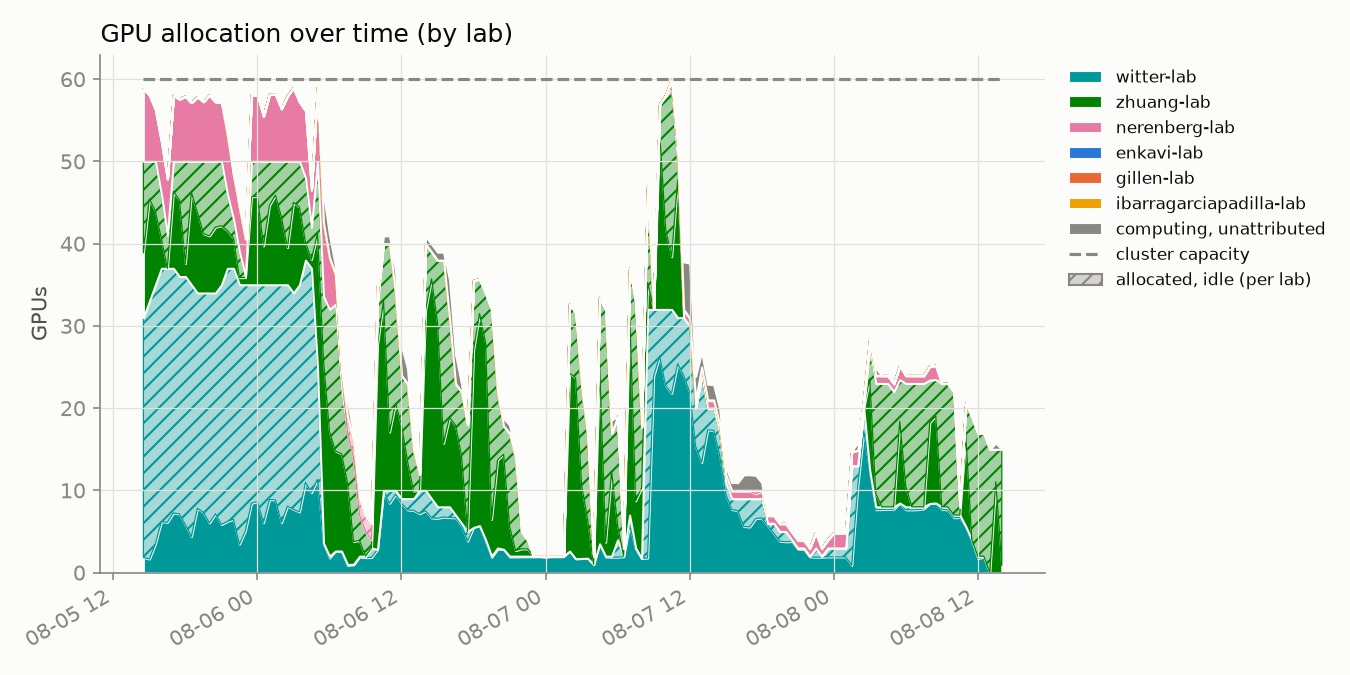
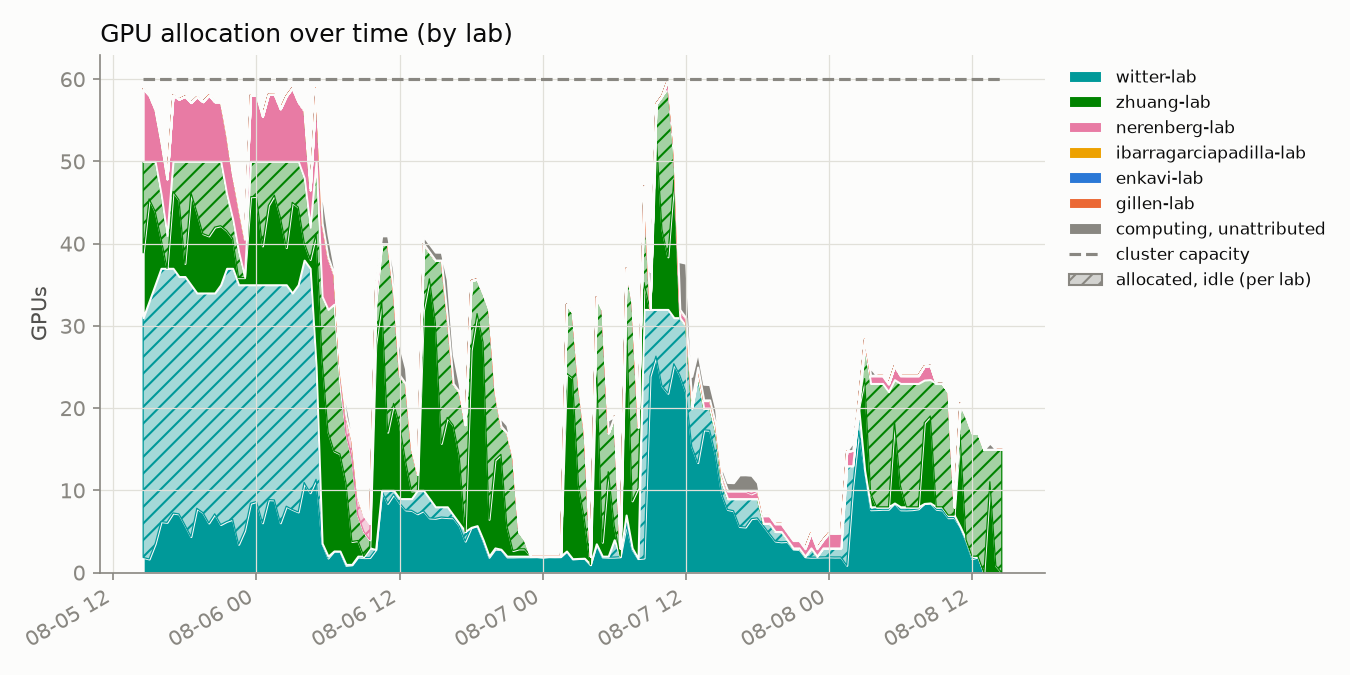
update 2026-08-08T14:30:01-07:00

diff --git a/README.md b/README.md
@@ -2,8 +2,8 @@
 
 Automated GPU/CPU/queue utilization tracker for `hopper.cluster`, updated every 30 minutes by cron. Usernames are anonymized to a stable per-account pseudonym; lab names are real.
 
-Last updated: 2026-08-08T14:00:10-07:00
-Samples: 144 queue snapshots, 144 GPU snapshots
+Last updated: 2026-08-08T14:30:10-07:00
+Samples: 145 queue snapshots, 145 GPU snapshots
 
 ## Resources
 
@@ -16,25 +16,25 @@ Samples: 144 queue snapshots, 144 GPU snapshots
 
 ## Headline
 
-- **44.2%** of the cluster's 60 GPUs allocated, averaged across all samples
-- **46.6%** average `nvidia-smi` utilization *when* a GPU is allocated to a job
+- **44.1%** of the cluster's 60 GPUs allocated, averaged across all samples
+- **46.4%** average `nvidia-smi` utilization *when* a GPU is allocated to a job
 - **88.3%** average cgroup CPU utilization *when* a CPU is allocated to a job
 
 ## Per lab / per user
 
 <table>
 <tr><th>Lab</th><th>User</th><th align='right'>GPU-hours allocated</th><th align='right'>CPU-hours allocated</th><th align='right'>GPU utilization</th></tr>
-<tr style='background-color:#d8ecd8'><td>zhuang-lab</td><td>user-0db9ced0</td><td align='right'>887.0</td><td align='right'>887.0</td><td align='right'>44%</td></tr>
+<tr style='background-color:#d8ecd8'><td>zhuang-lab</td><td>user-0db9ced0</td><td align='right'>894.5</td><td align='right'>894.5</td><td align='right'>43%</td></tr>
 <tr style='background-color:#d8efef'><td>witter-lab</td><td>user-554c620c</td><td align='right'>493.5</td><td align='right'>1019.0</td><td align='right'>68%</td></tr>
 <tr style='background-color:#d8efef'><td>witter-lab</td><td>user-d58f5a15</td><td align='right'>467.5</td><td align='right'>3740.0</td><td align='right'>9%</td></tr>
 <tr style='background-color:#fbebf1'><td>nerenberg-lab</td><td>user-6bb5f332</td><td align='right'>40.0</td><td align='right'>200.0</td><td align='right'>71%</td></tr>
 <tr style='background-color:#fbebf1'><td>nerenberg-lab</td><td>user-fedb5feb</td><td align='right'>22.5</td><td align='right'>54.0</td><td align='right'>67%</td></tr>
-<tr style='background-color:#fcf0d8'><td>ibarragarciapadilla-lab</td><td>user-dad71a72</td><td align='right'>0.0</td><td align='right'>6.0</td><td align='right'>—</td></tr>
-<tr style='background-color:#dfeaf8'><td>enkavi-lab</td><td>user-c21bdaa4</td><td align='right'>0.0</td><td align='right'>185.0</td><td align='right'>—</td></tr>
 <tr style='background-color:#fbebf1'><td>nerenberg-lab</td><td>user-b12dc074</td><td align='right'>0.0</td><td align='right'>16.0</td><td align='right'>—</td></tr>
-<tr style='background-color:#fcf0d8'><td>ibarragarciapadilla-lab</td><td>user-3cfc41a3</td><td align='right'>0.0</td><td align='right'>4005.0</td><td align='right'>—</td></tr>
 <tr style='background-color:#fcf0d8'><td>ibarragarciapadilla-lab</td><td>user-eec7ffae</td><td align='right'>0.0</td><td align='right'>426.5</td><td align='right'>—</td></tr>
-<tr style='background-color:#fce8e0'><td>gillen-lab</td><td>user-b89a87ef</td><td align='right'>0.0</td><td align='right'>780.0</td><td align='right'>—</td></tr>
+<tr style='background-color:#fcf0d8'><td>ibarragarciapadilla-lab</td><td>user-3cfc41a3</td><td align='right'>0.0</td><td align='right'>4012.5</td><td align='right'>—</td></tr>
+<tr style='background-color:#fcf0d8'><td>ibarragarciapadilla-lab</td><td>user-dad71a72</td><td align='right'>0.0</td><td align='right'>6.0</td><td align='right'>—</td></tr>
+<tr style='background-color:#dfeaf8'><td>enkavi-lab</td><td>user-c21bdaa4</td><td align='right'>0.0</td><td align='right'>187.0</td><td align='right'>—</td></tr>
+<tr style='background-color:#fce8e0'><td>gillen-lab</td><td>user-b89a87ef</td><td align='right'>0.0</td><td align='right'>792.0</td><td align='right'>—</td></tr>
 </table>
 
 ## Usage over time
@@ -45,7 +45,7 @@ Samples: 144 queue snapshots, 144 GPU snapshots
 
 Solid = utilized by lab, hatched = allocated but idle, gray = usage not traceable to a lab, dashed line = cluster capacity.
 
-Attribution combines `nvidia-smi`'s process listing with Slurm's GPU-to-job binding record; the latter caught **2740** readings the former missed.
+Attribution combines `nvidia-smi`'s process listing with Slurm's GPU-to-job binding record; the latter caught **2752** readings the former missed.
 
 ## Queue
 
@@ -57,13 +57,13 @@ Attribution combines `nvidia-smi`'s process listing with Slurm's GPU-to-job bind
 
 ![CPU usage vs GPU usage, decayed](assets/cpu_gpu_usage.png)
 
-One point per user per snapshot (n=690), usage decayed on Slurm's ~7-day fairshare half-life.
+One point per user per snapshot (n=694), usage decayed on Slurm's ~7-day fairshare half-life.
 
 **GPU usage doesn't count toward priority on this cluster** (`TRESBillingWeights`/`PriorityWeightTRES` unset) - watch the **upper-left**: low CPU usage (high priority) with high GPU usage.
 
 ## Recommendations
 
-1. **Weight GPU usage in fairshare.** `TRESBillingWeights` and `PriorityWeightTRES` are both unset right now, so Slurm's fairshare score only sees CPU-seconds - a job holding 4 idle L40S GPUs costs nothing in priority as long as it isn't also holding CPUs. That's the exact failure mode the scatter above is built to catch (upper-left: low CPU usage, high GPU usage). Fix: `scontrol update partition=main TRESBillingWeights=CPU=1.0,GRES/gpu=<weight>` (or set `PriorityWeightTRES` cluster-wide), then `scontrol reconfigure` - a full `slurmctld` restart also works but drops in-flight priority state. A reasonable starting point for `<weight>` is the CPUs-per-GPU ratio on a GPU node (128 CPUs / 4 GPUs = 32), so one GPU costs as much fairshare as the CPU share it displaces; tune from there against next week's headline numbers (44.2% allocated, 46.6% utilized when allocated, as of this snapshot). The weight value itself is a policy call - loop in whoever owns cluster allocation policy before changing it.
+1. **Weight GPU usage in fairshare.** `TRESBillingWeights` and `PriorityWeightTRES` are both unset right now, so Slurm's fairshare score only sees CPU-seconds - a job holding 4 idle L40S GPUs costs nothing in priority as long as it isn't also holding CPUs. That's the exact failure mode the scatter above is built to catch (upper-left: low CPU usage, high GPU usage). Fix: `scontrol update partition=main TRESBillingWeights=CPU=1.0,GRES/gpu=<weight>` (or set `PriorityWeightTRES` cluster-wide), then `scontrol reconfigure` - a full `slurmctld` restart also works but drops in-flight priority state. A reasonable starting point for `<weight>` is the CPUs-per-GPU ratio on a GPU node (128 CPUs / 4 GPUs = 32), so one GPU costs as much fairshare as the CPU share it displaces; tune from there against next week's headline numbers (44.1% allocated, 46.4% utilized when allocated, as of this snapshot). The weight value itself is a policy call - loop in whoever owns cluster allocation policy before changing it.
 
 2. **Escalate on sustained low utilization** (see table and scatter above). Right now the clearest candidate is `user-d58f5a15` in `witter-lab`: 467.5 GPU-hours allocated at 9% average utilization, i.e. roughly 424 GPU-hours that sat idle instead of going to someone in the queue. Turning that into an automated escalation needs two decisions made up front: a utilization threshold (something like under 20% mean utilization over at least 50 allocated GPU-hours is a defensible starting bar - loose enough to skip short debugging runs, tight enough to catch parked allocations) and a grace period (how many consecutive low-utilization snapshots before it counts as "sustained" rather than a momentary lull between batches). Once those are set, the mechanism can be either soft (a bot that reads `data/gpu_samples.jsonl` and reminds the user/lab by email or Slack) or hard (a Slurm-side QOS penalty, e.g. `sacctmgr modify qos <qos> set Priority-=<n>`, applied after N consecutive offending snapshots). Neither exists yet - today the table and scatter above are a read-only signal, not an enforced policy.
 
